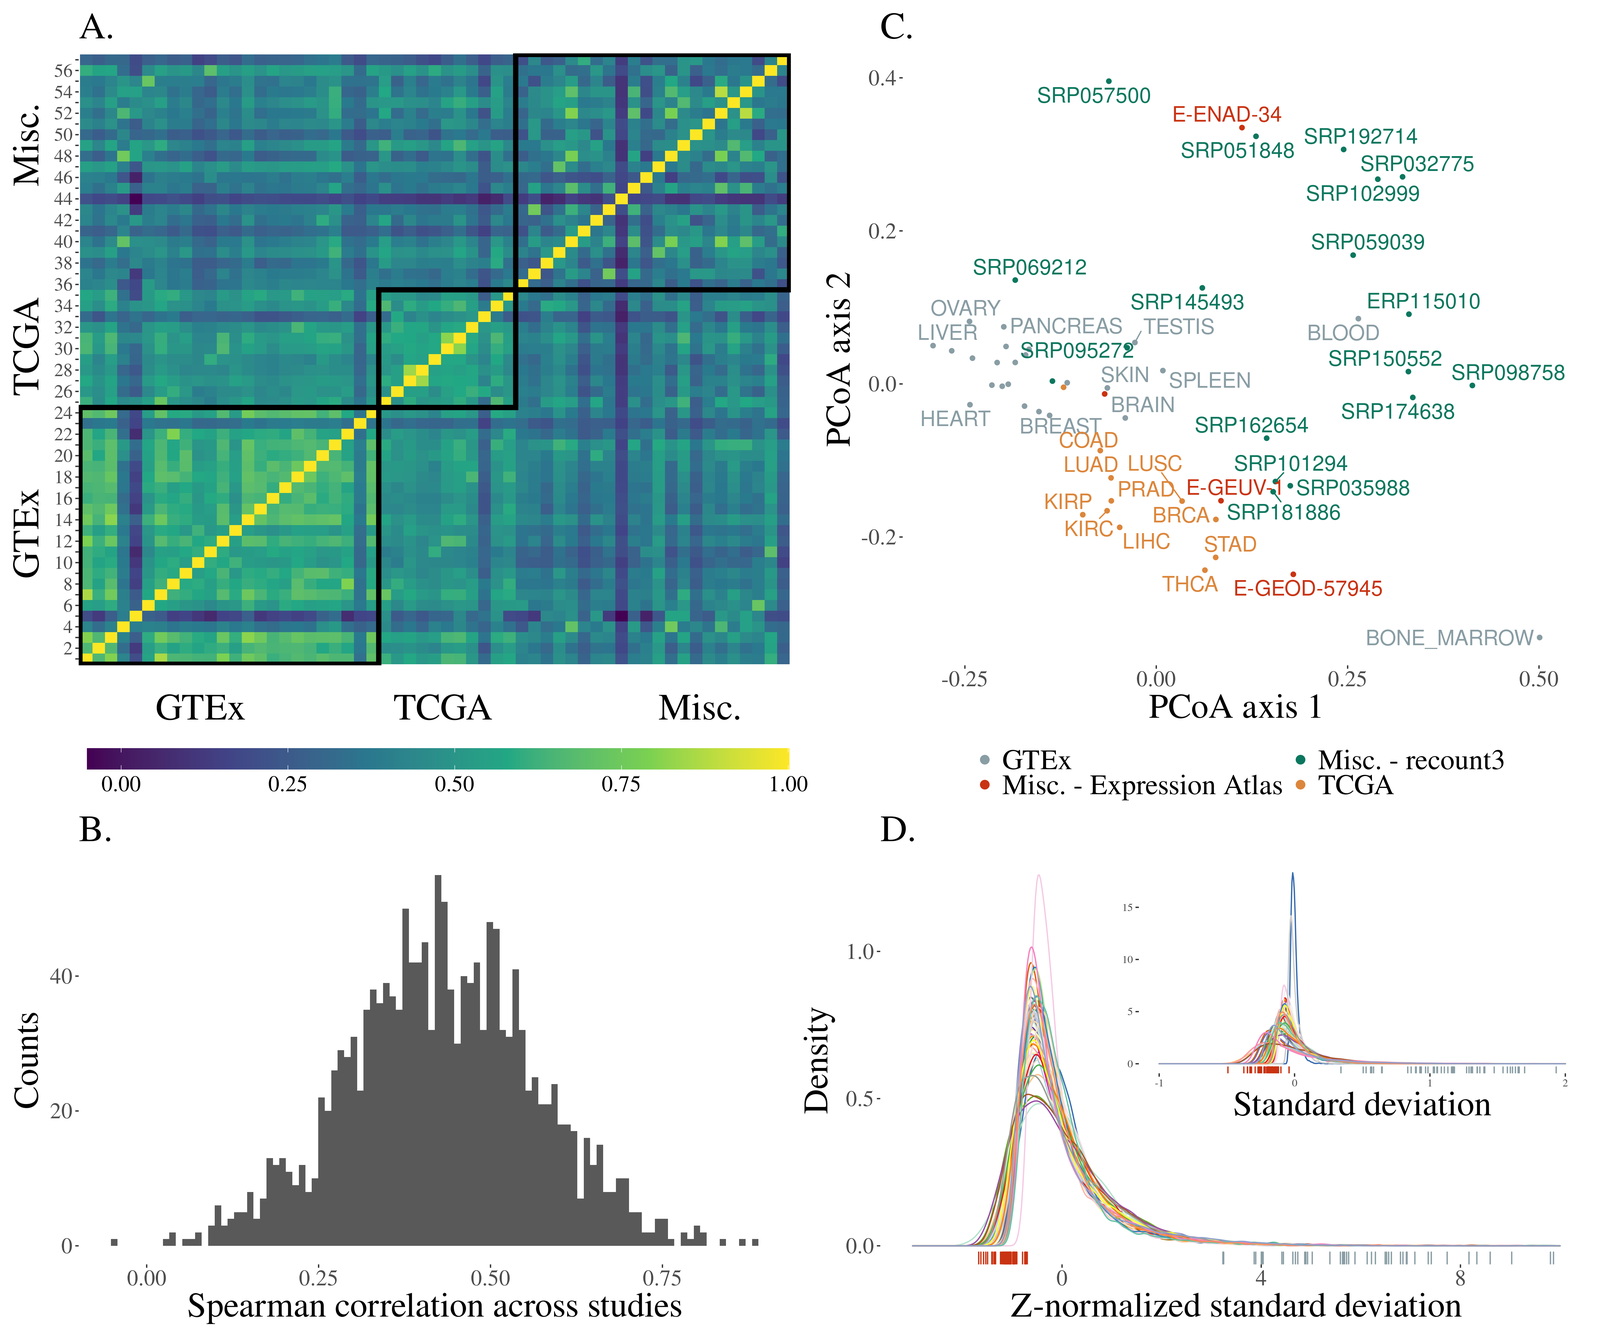
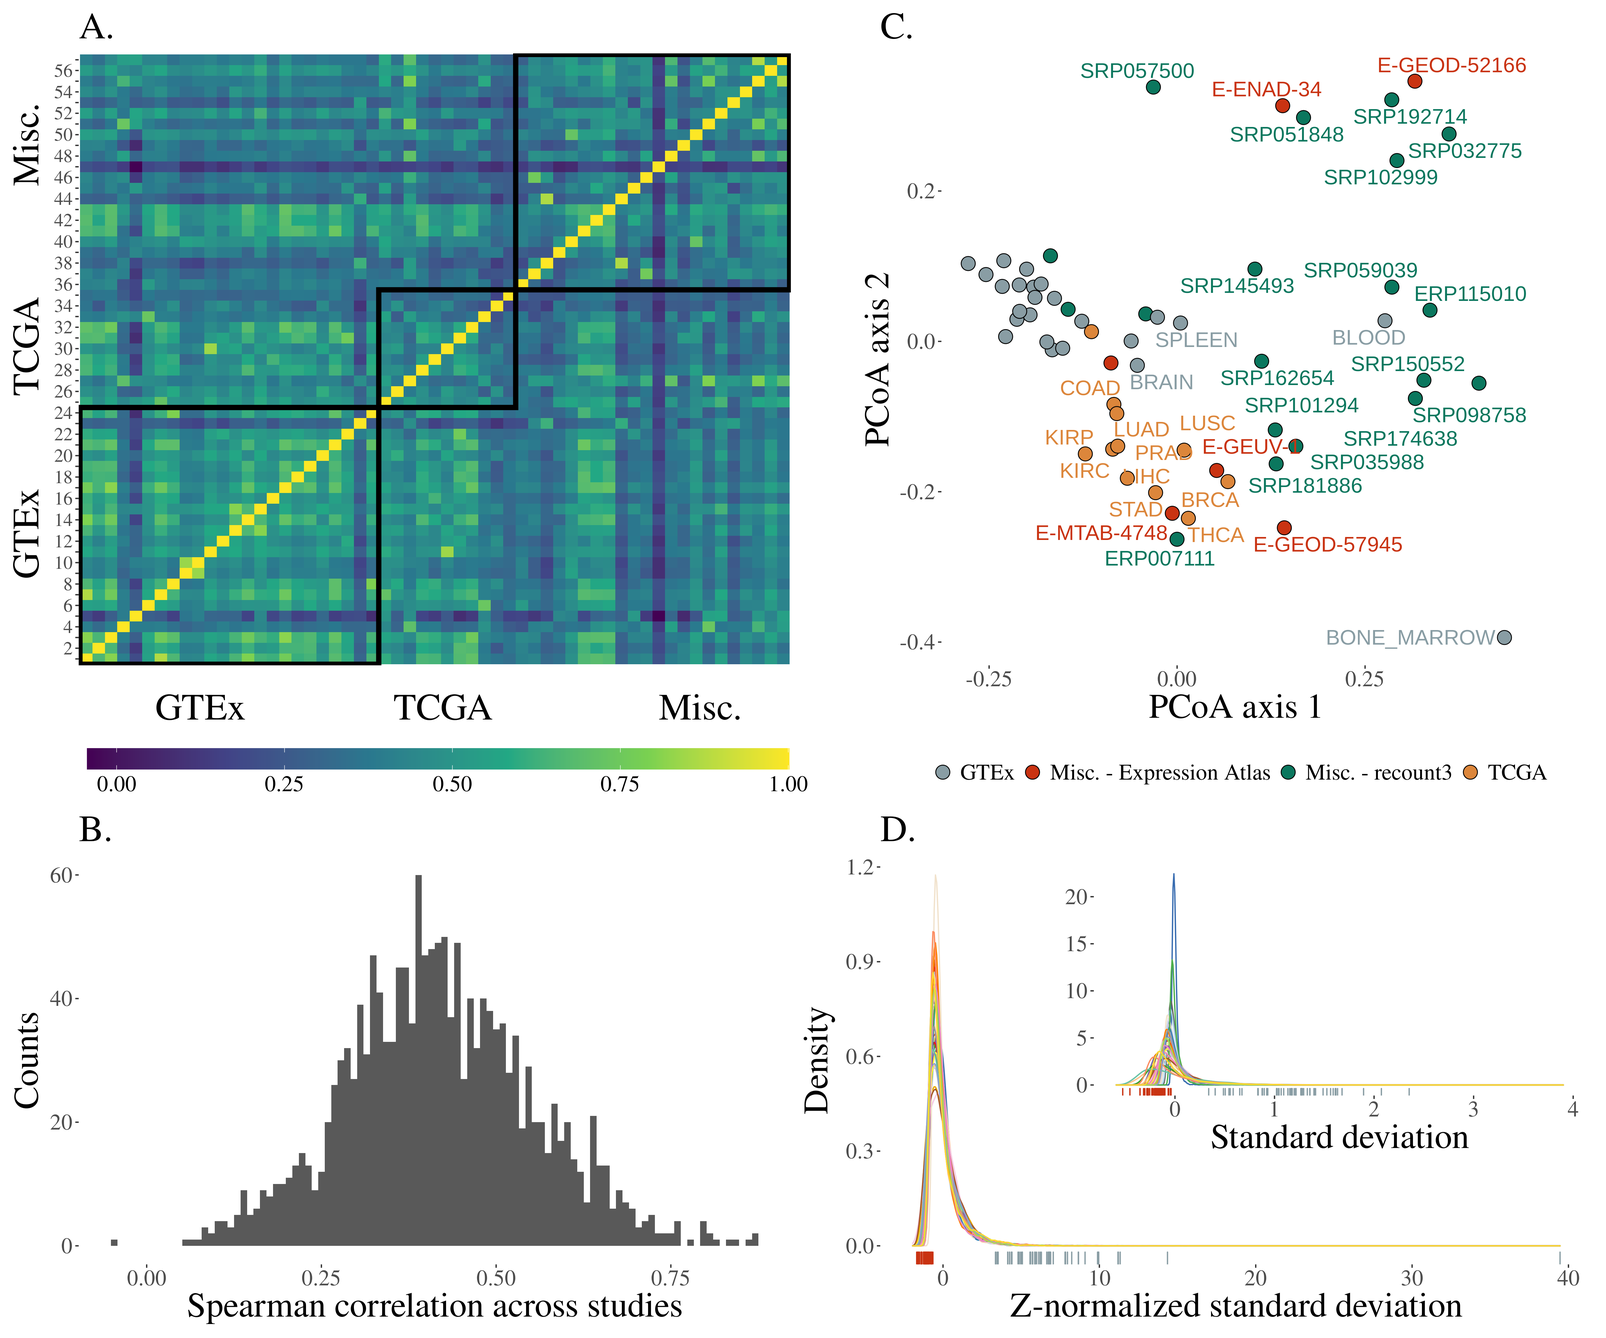
Adding gene name and updating fig1

diff --git a/main.md b/main.md
@@ -9,7 +9,7 @@ author:
       orcid: 0000-0003-4397-1395
       equal_contributor: "yes"
   - Diogo Melo:
-      institute: 
+      institute:
         - lsi
         - eeb
       email: damelo@princeton.edu
@@ -66,7 +66,7 @@ sansfont: Skolar Sans PE TEST
 bibliography: ./references.bib
 abstract: Gene expression variance has been linked to organismal function and fitness but remains a commonly neglected aspect of gene expression research. We lack a comprehensive view of the patterns of variance across genes, and how this variance is linked to context-specific gene regulation and gene function. Here, we use large publicly available human RNA-seq data sets to investigate the landscape of gene expression variance. In particular, we ask if there are consistently more or less variable genes across tissues and across data sets and what mechanisms drive these patterns. We show that gene expression variance is broadly similar across tissues and studies. We use this similarity to create both global and within-tissue rankings of variation, which we use to show that function, sequence variation, and gene regulatory signatures contribute to gene expression variance. Gene expression variance is strongly predictive of gene function, with low-variance genes being associated with fundamental cell processes, and high-variance genes being linked to responding to the environment. Our results show differences in the regulatory mechanisms of high and low gene expression variance, in addition to a clear link between function and gene expression variance, suggesting that these differences are adaptive. We expect these results will help to place the pattern of variation at the center of our understanding of molecular phenotypes.
 ---
-<!-- 
+<!--
 # Author Summary
 
 Required for PLOS Genetics... -->
@@ -99,16 +99,16 @@ Alternatively, expression variation across tissues could be tightly coupled, and
 Alemu et al. [@Alemu2014-jo] used microarray data from several human tissues to show that epigenetic markers were linked to gene expression variation and that these markers were variable across tissues and between high- and low-variance genes.
 
 Here, we use publicly available human gene expression data sets to evaluate how the differences in gene expression variance are structured across independent samples.
-By comparing the gene expression variance measured across many studies, we show that the patterns of gene expression variance are broadly similar across studies and tissues. 
+By comparing the gene expression variance measured across many studies, we show that the patterns of gene expression variance are broadly similar across studies and tissues.
 We used the observed similarities across these studies to create an across-study gene expression variance ranking, which orders genes from least variable to most variable.
-We then integrate various functional annotations as well as sequence variation to probe the drivers of this across-study ranking. 
+We then integrate various functional annotations as well as sequence variation to probe the drivers of this across-study ranking.
 Finally, we explore the link between gene expression variance and biological function by leveraging gene ontology and disease annotations.
 
 
 # Results
 
 
-![A. Correlation heatmap showing the across-study Spearman correlation of standard deviations. Pairs of studies with more similar patterns of gene expression variance have higher correlations. Studies are shown in the same order as in @fig:corr_model, panel A; B. Histogram of the correlations shown in the previous panel; C. Standard deviation correlation PCoA. There is no clear structuring of the studies with respect to their source, which is indicated by the colors; D. Density plot of standard deviations after z-normalization. The inset plot shows the distribution of mean-centered standard deviations grouped by study without normalization. The corresponding rug plots show the location of the highest-ranking gene in standard deviation rank (right, blue) and lowest (left, red).](figures/fig1.png){#fig:sd_corr}
+![A. Correlation heatmap showing the across-study Spearman correlation of standard deviations. Pairs of studies with more similar patterns of gene expression variance have higher correlations. Studies are shown in the same order as in @fig:corr_model, panel A; B. Histogram of the correlations shown in the previous panel; C. Standard deviation correlation PCoA. There is no clear structuring of the studies with respect to their source, which is indicated by the colors; D. Density plot of standard deviations after z-normalization. The inset plot shows the distribution of mean-centered standard deviations grouped by study without normalization. The corresponding rug plots show the location of the highest-ranking gene (*HBB*) in standard deviation rank (right, blue) and lowest (*WDR33*) (left, red).](figures/fig1.png){#fig:sd_corr}
 
 We use 57 publicly available human gene expression data sets which are derived from the studies listed in table \ref{tab1} of the [Methods](#Methods) section. For each study, gene expression standard deviations (SDs) were calculated using a unified pipeline that normalized the mean-variance relation in read-count data, controlled for batch effects, and removed outliers (see [Methods](#Methods) for details).
 Spearman correlations ($\rho_s$) between gene expression SDs reveal a broadly similar rank of gene expression variance, such that genes that are most variable in one study tend to be most variable in all studies (@fig:sd_corr A and B).
@@ -120,9 +120,9 @@ The observed range of gene expression SD across genes is variable across studies
 Given that the correlations across studies are mostly positive and high (75% of correlations are between 0.45 and 0.9), indicating similar ordering of the genes, we seek to summarize the differences in variance across genes by using a single cross-study rank, averaging the ordering across all studies.
 To create this rank, we used the score of each gene in the first principal component of the Spearman correlation matrix.
 Ordering genes using these scores generate a ranked list of genes, with the most variable genes having the highest rank.
-We create a similar across-study rank for mean expression. 
+We create a similar across-study rank for mean expression.
 The red and blue ticks at the bottom of @fig:sd_corr D show the positions on the SD distributions of the least and most variable genes in our variance rank. The position of these highlighted genes in the SD distributions illustrates how the extremes of the rank are indeed some of the least and most variable genes across all studies.
-We also create a set of tissue-specific SD ranks, which use the same procedure outlined above but using only studies that were performed on the same tissue. 
+We also create a set of tissue-specific SD ranks, which use the same procedure outlined above but using only studies that were performed on the same tissue.
 This creates a series of gene ranks, one for each sampled tissue, which describes the gene expression SD rank in that particular tissue.
 Both tissue-specific and across-study ranks are available in the Supporting Information.
 
@@ -138,7 +138,7 @@ This modeling (@fig:corr_model) shows that comparisons of studies within GTEx an
 Correlations involving studies that are not from TCGA or GTEx (marked as "Misc.") are on average lower (@fig:corr_model C).
 Since these two sources are independent, this mild effect on the similarities could be due to the quality of the data coming from these two large projects.
 Tissue also affects the similarity between gene expression SD, with studies using the same tissue being, on average, more similar (@fig:corr_model B).
-However, all of these pairwise effects are mild, and the largest effects on the correlations are those associated with individual studies, in particular some specific tissues, i.e., comparisons involving \textsc{bone marrow} (from GTEx) and study \textsc{srp057500} (which used platelets) are on average lower (@fig:corr_model A). 
+However, all of these pairwise effects are mild, and the largest effects on the correlations are those associated with individual studies, in particular some specific tissues, i.e., comparisons involving \textsc{bone marrow} (from GTEx) and study \textsc{srp057500} (which used platelets) are on average lower (@fig:corr_model A).
 The only negative correlation we observe is between these two studies, which also appear further away in the PCoA plot in @fig:sd_corr C.
 
 ## Does biological function explain variance in expression?
@@ -197,7 +197,7 @@ We assess how local epigenetic features relate to gene expression variance. We u
 
 ![Proportion of gene regions made up of ChromHMM chromatin states for genes in the top and bottom 5% of the across-study variance rank metric. Line plot contrasts the proportion of gene regions made up of the indicated chromatin states for genes in the top and bottom 5% of the across-study variance rank metric. Ends denote the median proportion of gene regions made up of the chromatin state, and error bars represent the standard error of the mean. States colored black are not significant, all others exhibit significant differences in gene region made up of the chromatin state for genes in the top and bottom 5% of the variance rank metric (BH adjusted Wilcoxon signed-rank test, p < 0.05). Het indicates heterochromatin; TSS, transcription start sites; znf, zinc finger genes.](figures/top_bottom_5pVarrank_fxnlGen_lineplot_10kb_simplified.png){#fig:lineplot}
 
-We also explore the relationship between tissue-specific ChromHMM chromatin states and SD rank and contrast these tissue-level analyses to the across-study analysis outlined above. Many of the across-study correlations are recapitulated at the tissue-specific level, including a strong and highly consistent positive correlation between the proportion of gene regions made up of enhancer states and that gene’s expression variance, and an inverse relationship between gene expression variance and histone marks associated with gene transcription  (supplementary fig. 1A). Two blood associations stand out as being different from the consistent effects across the other tissue-level and across-study associations. First, the weak (i.e., histone marks associated with both activating and repressive functions) promoter state is positively correlated with gene expression variance in all comparisons except blood. Second, the consistent inverse correlation of gene expression variance with weak transcription is reversed in blood, such that there is a positive correlation between histone marks associated with weak transcription and blood gene expression variance (supplementary fig. 1A). Taken together, these results suggest that, rather than genes with a bivalent promoter state (i.e., poised genes) exhibiting more expression variance, blood high-variance genes are more likely already expressed at basal levels (i.e., weakly transcribed), as discussed previously [@Rogatsky2014-bi]. 
+We also explore the relationship between tissue-specific ChromHMM chromatin states and SD rank and contrast these tissue-level analyses to the across-study analysis outlined above. Many of the across-study correlations are recapitulated at the tissue-specific level, including a strong and highly consistent positive correlation between the proportion of gene regions made up of enhancer states and that gene’s expression variance, and an inverse relationship between gene expression variance and histone marks associated with gene transcription  (supplementary fig. 1A). Two blood associations stand out as being different from the consistent effects across the other tissue-level and across-study associations. First, the weak (i.e., histone marks associated with both activating and repressive functions) promoter state is positively correlated with gene expression variance in all comparisons except blood. Second, the consistent inverse correlation of gene expression variance with weak transcription is reversed in blood, such that there is a positive correlation between histone marks associated with weak transcription and blood gene expression variance (supplementary fig. 1A). Taken together, these results suggest that, rather than genes with a bivalent promoter state (i.e., poised genes) exhibiting more expression variance, blood high-variance genes are more likely already expressed at basal levels (i.e., weakly transcribed), as discussed previously [@Rogatsky2014-bi].
 
 Immediate early genes (IEGs) respond quickly to external signals without requiring _de novo_ protein synthesis, and a bivalent state has been reported to be associated with IEG promoters [reviewed in @Bahrami2016-dx]. Given our results that genes with high expression variance are enriched for cellular signaling and response mechanisms (@fig:go_tails A), and bivalent promoter states are correlated with the gene expression variance rank (supplementary fig. 1A), we hypothesized that IEGs would be enriched within genes in the top expression variance ranks. This was the case for all tissue-level gene expression variance ranks (enrichment ratios range from 3.3-8.8, Bonferroni-adjusted hypergeometric test, p < 0.05), except for in blood (enrichment ratio = 1.2, hypergeometric test, p = 0.3). Thus, once again blood stands out when attempting to understand genomic regulatory drivers of expression variance. In all, while high-variance genes are generally shared across tissues and enriched for immune and environmental signaling pathways, it seems that the gene regulatory mechanisms governing their expression are distinct between immune cell types and other tissues studied here.
 
@@ -337,16 +337,16 @@ Only genes present in all studies were used to calculate the Spearman correlatio
 Using Spearman correlations avoids problems related to overall scaling or coverage differences, and allows us to assess if the same genes are usually more- or less-variable across studies.
 To investigate the factors involved in determining correlations between studies, we used a Bayesian varying effects model to investigate the effect of study origin and tissue on the correlations across studies.
 This model is designed to take the non-independent nature of a set of correlations into account when modeling the correlation between gene expression SDs.
-This is accomplished by adding a per-study random effect, see [@Dias2021-hb] for details. 
+This is accomplished by adding a per-study random effect, see [@Dias2021-hb] for details.
 The Fisher z-transformed Spearman correlations across studies ($z(\rho_{ij})$) are modeled as:
 
 $$\begin{aligned}
 z(\rho_{ij}) &\sim N(\mu_{ij}, \sigma) \\
-\mu_{ij} &= \mu_0 + \alpha_i + \alpha_j + \beta X \\ 
+\mu_{ij} &= \mu_0 + \alpha_i + \alpha_j + \beta X \\
 \alpha_i &\sim N(0, \sigma_{\alpha})
 \end{aligned}$$
 
-The $\alpha$ terms account for the non-independence between the pairs of correlations and estimate the idiosyncratic contribution of each study to all the correlations it is involved in. The fixed effects encoded in the design matrix $X$ measure the effects of tissue congruence and study-origin congruence. All fixed effect parameters ($\beta$) and per-study parameters ($\alpha$) receive weakly informative normal priors with a standard deviation of one quarter. For the overall variance ($\sigma$) we use a unit exponential prior, and for the intercept ($\mu_0$) a unit normal prior. This model was fit in Stan [@carpenter2017stan] via the rethinking R package [@mcelreath2020statistical], using eight chains, with 4000 warm-up iterations and 2000 sampling iterations. Convergence was assessed using R-hat diagnostics [@Gelman2013-ae], and we observed no warnings or divergent transitions. 
+The $\alpha$ terms account for the non-independence between the pairs of correlations and estimate the idiosyncratic contribution of each study to all the correlations it is involved in. The fixed effects encoded in the design matrix $X$ measure the effects of tissue congruence and study-origin congruence. All fixed effect parameters ($\beta$) and per-study parameters ($\alpha$) receive weakly informative normal priors with a standard deviation of one quarter. For the overall variance ($\sigma$) we use a unit exponential prior, and for the intercept ($\mu_0$) a unit normal prior. This model was fit in Stan [@carpenter2017stan] via the rethinking R package [@mcelreath2020statistical], using eight chains, with 4000 warm-up iterations and 2000 sampling iterations. Convergence was assessed using R-hat diagnostics [@Gelman2013-ae], and we observed no warnings or divergent transitions.
 
 __Gene expression SD rank:__ Given that most of the variation in the Spearman correlation across studies is explained by a single principal component, we use the ranked projections of gene expression SDs in this principal component (PC1) to create an across-study rank of gene variation.
 The higher the rank, the higher the expression SD of a given gene.
@@ -384,11 +384,11 @@ __Correlations:__ We use the ppcor R package v1.1 [@kim2015ppcor] to run the pai
 
 __GO term enrichment__: All gene ontology (GO) analyses were done using the clusterProfiler R package v4.2.2 [@Wu2021-db] and the Org.Hs.eg.db database package v3.14.0 [@godb]. GO and all further enrichment analysis used the hypergeometric test to assess the significance of the enrichment.
 
-__Secreted genes__: We use The Protein Atlas [@uhlen2015tissue] to extract information on which proteins are secreted [@uhlen2019human] and test for enrichment of genes with secreted products in the genes within the highest and lowest 5% of gene expression variance rank. 
+__Secreted genes__: We use The Protein Atlas [@uhlen2015tissue] to extract information on which proteins are secreted [@uhlen2019human] and test for enrichment of genes with secreted products in the genes within the highest and lowest 5% of gene expression variance rank.
 
-__Housekeeping genes__: Human housekeeping genes were identified as genes that are expressed with low variance in all 52 human cell and tissue types, assessed in over 10,000 samples [@Hounkpe2020-yq]. We test for enrichment of housekeeping genes in the genes within the highest and lowest 5% of gene expression variance rank. 
+__Housekeeping genes__: Human housekeeping genes were identified as genes that are expressed with low variance in all 52 human cell and tissue types, assessed in over 10,000 samples [@Hounkpe2020-yq]. We test for enrichment of housekeeping genes in the genes within the highest and lowest 5% of gene expression variance rank.
 
-__Immediate early genes (IEGs):__ Human IEGs were curated from the literature in @Arner2015-be as genes that respond to experimental stimulation through up-regulation within the first 60 minutes of the experiment. We use the hypergeometric test to assess the significance of the enrichment. Immediate early genes (IEGs): Human IEGs were curated from the literature in  @Arner2015-be as genes that respond to experimental stimulation through up-regulation within the first 60 minutes of the experiment. 
+__Immediate early genes (IEGs):__ Human IEGs were curated from the literature in @Arner2015-be as genes that respond to experimental stimulation through up-regulation within the first 60 minutes of the experiment. We use the hypergeometric test to assess the significance of the enrichment. Immediate early genes (IEGs): Human IEGs were curated from the literature in  @Arner2015-be as genes that respond to experimental stimulation through up-regulation within the first 60 minutes of the experiment.
 
 __Probability of being loss-of-function intolerant (pLI)__: Genes that are likely haploinsufficient (i.e., intolerant of heterozygous loss-of-function variants) were detected as those with fewer than expected protein-truncating variants (PTVs) in ExAC [@Lek2016-xw]. We use genes with a pLI > 0.9 to test for the enrichment of loss-of-function intolerant genes in the genes exhibiting the highest and lowest 5% gene expression variance estimates.
 
@@ -396,13 +396,13 @@ __Disease annotations__: We use the gene annotations for involvement with diseas
 
 # Code availability
 
-All code for reproducing all analyses and figures, along with a walk-through, is available at [github.com/ayroles-lab/ExpressionVariance](https://github.com/ayroles-lab/ExpressionVariance). 
+All code for reproducing all analyses and figures, along with a walk-through, is available at [github.com/ayroles-lab/ExpressionVariance](https://github.com/ayroles-lab/ExpressionVariance).
 
 # Supporting information
 
-Supporting information is available at [github.com/diogro/expVarManuscript](https://github.com/diogro/expVarManuscript). 
+Supporting information is available at [github.com/diogro/expVarManuscript](https://github.com/diogro/expVarManuscript).
 
-1. SI figure 1 - Across-study and tissue-specific gene expression variance and mean correlations 
+1. SI figure 1 - Across-study and tissue-specific gene expression variance and mean correlations
 with non-overlapping chromatin states through ChromHMM.
 
 1. SI figure 2 - Proportion of gene regions made up of ChromHMM chromatin states for genes in
